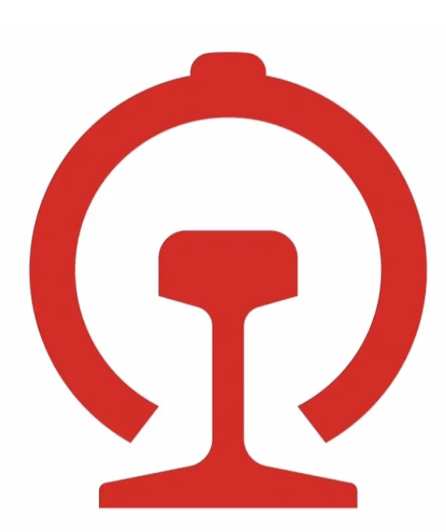
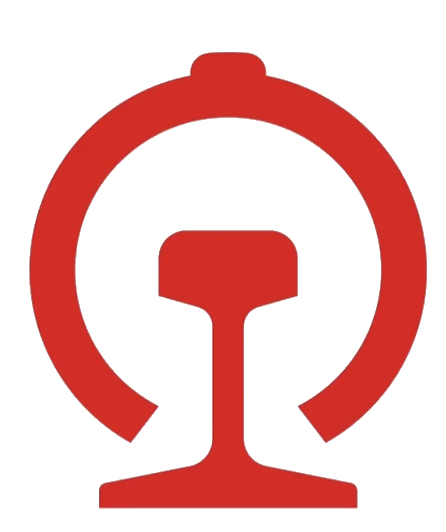
style: 空铁联运铁路logo抠掉白底只留红色标志,融入液态玻璃卡片

diff --git a/index.html b/index.html
@@ -5,10 +5,10 @@
     <meta name="viewport" content="width=device-width, initial-scale=1.0">
     <title>老牧师航空 - 首页</title>
     <script src="https://cdn.tailwindcss.com/3.4.16"></script>
-    <script src="assets/tailwind-config.js?v=20260920o"></script>
+    <script src="assets/tailwind-config.js?v=20260920p"></script>
     <link href="https://cdn.jsdelivr.net/npm/font-awesome@4.7.0/css/font-awesome.min.css" rel="stylesheet">
     <link rel="preload" as="image" href="assets/hero_bg.webp">
-    <link rel="stylesheet" href="assets/style.css?v=20260920o">
+    <link rel="stylesheet" href="assets/style.css?v=20260920p">
 </head>
 <body class="text-textDark">
     <div class="bg-layer" aria-hidden="true"></div>
@@ -73,7 +73,7 @@
                     </div>
                 </div>
                 <div class="mt-8 flex justify-center items-end">
-                    <img src="assets/railair_icon.png?v=20260920o" alt="空铁联运" class="anim-float" style="height:110px;width:auto;border-radius:24px;box-shadow:0 10px 30px rgba(74,90,110,0.18);background:#fff;padding:14px 18px">
+                    <img src="assets/railair_icon.png?v=20260920p" alt="空铁联运" class="anim-float" style="height:120px;width:auto;filter:drop-shadow(0 6px 18px rgba(180,60,60,0.25))">
                 </div>
             </div>
         </section>
@@ -150,9 +150,9 @@
         </section>
     </main>
     <div id="siteFooter"></div>
-    <script src="assets/data.js?v=20260920o"></script>
-    <script src="assets/common.js?v=20260920o"></script>
-    <script src="assets/routes-data.js?v=20260920o"></script>
+    <script src="assets/data.js?v=20260920p"></script>
+    <script src="assets/common.js?v=20260920p"></script>
+    <script src="assets/routes-data.js?v=20260920p"></script>
     <script>
         function quickSearch(start,end){location.href=`booking.html?start=${encodeURIComponent(start)}&end=${encodeURIComponent(end)}`;}
         function routeCard(r){

diff --git a/egg.html b/egg.html
@@ -5,16 +5,16 @@
     <meta name="viewport" content="width=device-width, initial-scale=1.0">
     <title>神秘彩蛋 | 老牧师航空</title>
     <script src="https://cdn.tailwindcss.com/3.4.16"></script>
-    <script src="assets/tailwind-config.js?v=20260920o"></script>
+    <script src="assets/tailwind-config.js?v=20260920p"></script>
     <link href="https://cdn.jsdelivr.net/npm/font-awesome@4.7.0/css/font-awesome.min.css" rel="stylesheet">
-    <link rel="stylesheet" href="assets/style.css?v=20260920o">
+    <link rel="stylesheet" href="assets/style.css?v=20260920p">
 </head>
 <body class="text-textDark">
     <div id="siteHeader"></div>
     <main class="pt-32 pb-16 container mx-auto px-4 max-w-2xl text-center">
         <!-- 彩蛋吉祥物 -->
         <div class="bg-card card-gold p-8 rounded-big shadow-xl anim-up">
-            <img src="assets/egg_mascot.png?v=20260920o" alt="神秘吉祥物" class="mx-auto w-48 h-48 object-contain rounded-3xl bounce-hover">
+            <img src="assets/egg_mascot.png?v=20260920p" alt="神秘吉祥物" class="mx-auto w-48 h-48 object-contain rounded-3xl bounce-hover">
             <h2 class="text-2xl font-bold text-white mt-6">🎉 恭喜你发现了神秘彩蛋！</h2>
             <p class="text-white/70 mt-2">这只爱比耶的小袋鼠送你一次抽奖机会，每天可抽一次</p>
 
@@ -31,8 +31,8 @@
         </div>
     </main>
     <div id="siteFooter"></div>
-    <script src="assets/data.js?v=20260920o"></script>
-    <script src="assets/common.js?v=20260920o"></script>
+    <script src="assets/data.js?v=20260920p"></script>
+    <script src="assets/common.js?v=20260920p"></script>
     <script>
         // 奖品池
         const PRIZES=[

diff --git a/member.html b/member.html
@@ -5,9 +5,9 @@
     <meta name="viewport" content="width=device-width, initial-scale=1.0">
     <title>会员中心 | 老牧师航空</title>
     <script src="https://cdn.tailwindcss.com/3.4.16"></script>
-    <script src="assets/tailwind-config.js?v=20260920o"></script>
+    <script src="assets/tailwind-config.js?v=20260920p"></script>
     <link href="https://cdn.jsdelivr.net/npm/font-awesome@4.7.0/css/font-awesome.min.css" rel="stylesheet">
-    <link rel="stylesheet" href="assets/style.css?v=20260920o">
+    <link rel="stylesheet" href="assets/style.css?v=20260920p">
 </head>
 <body class="text-textDark">
     <div id="siteHeader"></div>
@@ -132,8 +132,8 @@
             </div>
         </div>
     </div>
-    <script src="assets/data.js?v=20260920o"></script>
-    <script src="assets/common.js?v=20260920o"></script>
+    <script src="assets/data.js?v=20260920p"></script>
+    <script src="assets/common.js?v=20260920p"></script>
     <script>
         const LV_COLORS={普卡:'text-white',银卡:'text-gray-300',金卡:'text-gold',铂金卡:'text-amber-300',钻石卡:'text-cyan-300'};
         const LV_DESC={普卡:'注册即享 · 里程累积、会员专属客服、会员价购票',银卡:'1万里程 · 优先值机、额外10%里程加成、生日礼遇',金卡:'3万里程 · 免费选座、贵宾安检通道、额外25%里程、优先登机',铂金卡:'6万里程 · 贵宾休息室、升舱券×1/年、额外50%里程',钻石卡:'10万里程 · 专属管家、无限休息室、额外100%里程'};

diff --git a/routes.html b/routes.html
@@ -5,9 +5,9 @@
     <meta name="viewport" content="width=device-width, initial-scale=1.0">
     <title>全部航线 | 老牧师航空</title>
     <script src="https://cdn.tailwindcss.com/3.4.16"></script>
-    <script src="assets/tailwind-config.js?v=20260920o"></script>
+    <script src="assets/tailwind-config.js?v=20260920p"></script>
     <link href="https://cdn.jsdelivr.net/npm/font-awesome@4.7.0/css/font-awesome.min.css" rel="stylesheet">
-    <link rel="stylesheet" href="assets/style.css?v=20260920o">
+    <link rel="stylesheet" href="assets/style.css?v=20260920p">
 </head>
 <body class="text-textDark">
     <div id="siteHeader"></div>
@@ -26,9 +26,9 @@
         </div>
     </main>
     <div id="siteFooter"></div>
-    <script src="assets/data.js?v=20260920o"></script>
-    <script src="assets/common.js?v=20260920o"></script>
-    <script src="assets/routes-data.js?v=20260920o"></script>
+    <script src="assets/data.js?v=20260920p"></script>
+    <script src="assets/common.js?v=20260920p"></script>
+    <script src="assets/routes-data.js?v=20260920p"></script>
     <script>
         function quickSearch(start,end){location.href=`booking.html?start=${encodeURIComponent(start)}&end=${encodeURIComponent(end)}`;}
         function routeCard(r){

diff --git a/special.html b/special.html
@@ -5,9 +5,9 @@
     <meta name="viewport" content="width=device-width, initial-scale=1.0">
     <title>特殊服务申请 | 老牧师航空</title>
     <script src="https://cdn.tailwindcss.com/3.4.16"></script>
-    <script src="assets/tailwind-config.js?v=20260920o"></script>
+    <script src="assets/tailwind-config.js?v=20260920p"></script>
     <link href="https://cdn.jsdelivr.net/npm/font-awesome@4.7.0/css/font-awesome.min.css" rel="stylesheet">
-    <link rel="stylesheet" href="assets/style.css?v=20260920o">
+    <link rel="stylesheet" href="assets/style.css?v=20260920p">
 </head>
 <body class="text-textDark">
     <div id="siteHeader"></div>
@@ -49,8 +49,8 @@
         </div>
     </main>
     <div id="siteFooter"></div>
-    <script src="assets/data.js?v=20260920o"></script>
-    <script src="assets/common.js?v=20260920o"></script>
+    <script src="assets/data.js?v=20260920p"></script>
+    <script src="assets/common.js?v=20260920p"></script>
     <script>
         const SPECIAL_FORMS={
             meal:{name:"定制特殊餐食",icon:"fa-cutlery",desc:"素食/清真/婴儿餐等特殊餐食定制，需在起飞前24小时申请",

diff --git a/booking.html b/booking.html
@@ -5,9 +5,9 @@
     <meta name="viewport" content="width=device-width, initial-scale=1.0">
     <title>出行预订 | 老牧师航空</title>
     <script src="https://cdn.tailwindcss.com/3.4.16"></script>
-    <script src="assets/tailwind-config.js?v=20260920o"></script>
+    <script src="assets/tailwind-config.js?v=20260920p"></script>
     <link href="https://cdn.jsdelivr.net/npm/font-awesome@4.7.0/css/font-awesome.min.css" rel="stylesheet">
-    <link rel="stylesheet" href="assets/style.css?v=20260920o">
+    <link rel="stylesheet" href="assets/style.css?v=20260920p">
 </head>
 <body class="text-textDark">
     <div id="siteHeader"></div>
@@ -87,8 +87,8 @@
         </div>
     </main>
     <div id="siteFooter"></div>
-    <script src="assets/data.js?v=20260920o"></script>
-    <script src="assets/common.js?v=20260920o"></script>
+    <script src="assets/data.js?v=20260920p"></script>
+    <script src="assets/common.js?v=20260920p"></script>
     <script>
         const PAGE_SIZE=8;
         let currentList=[],shown=0,selectFlight=null,selectCabin="eco",selectType="flight",selectPlan=null,selectWeatherRisk=null,currentRailList=[];

diff --git a/cart.html b/cart.html
@@ -5,9 +5,9 @@
     <meta name="viewport" content="width=device-width, initial-scale=1.0">
     <title>购物车 | 老牧师航空</title>
     <script src="https://cdn.tailwindcss.com/3.4.16"></script>
-    <script src="assets/tailwind-config.js?v=20260920o"></script>
+    <script src="assets/tailwind-config.js?v=20260920p"></script>
     <link href="https://cdn.jsdelivr.net/npm/font-awesome@4.7.0/css/font-awesome.min.css" rel="stylesheet">
-    <link rel="stylesheet" href="assets/style.css?v=20260920o">
+    <link rel="stylesheet" href="assets/style.css?v=20260920p">
 </head>
 <body class="text-textDark">
     <div id="siteHeader"></div>
@@ -35,8 +35,8 @@
         </div>
     </div>
     <div id="siteFooter"></div>
-    <script src="assets/data.js?v=20260920o"></script>
-    <script src="assets/common.js?v=20260920o"></script>
+    <script src="assets/data.js?v=20260920p"></script>
+    <script src="assets/common.js?v=20260920p"></script>
     <script>
         const TRAIN_SEAT_KEYS=['second','first','business'];
         const TRAIN_SEAT_NAME={second:'二等座',first:'一等座',business:'商务座'};

diff --git a/checkin.html b/checkin.html
@@ -5,9 +5,9 @@
     <meta name="viewport" content="width=device-width, initial-scale=1.0">
     <title>在线值机 | 老牧师航空</title>
     <script src="https://cdn.tailwindcss.com/3.4.16"></script>
-    <script src="assets/tailwind-config.js?v=20260920o"></script>
+    <script src="assets/tailwind-config.js?v=20260920p"></script>
     <link href="https://cdn.jsdelivr.net/npm/font-awesome@4.7.0/css/font-awesome.min.css" rel="stylesheet">
-    <link rel="stylesheet" href="assets/style.css?v=20260920o">
+    <link rel="stylesheet" href="assets/style.css?v=20260920p">
 </head>
 <body class="text-textDark">
     <div id="siteHeader"></div>
@@ -17,8 +17,8 @@
         <div id="boardingPass" class="hidden"></div>
     </main>
     <div id="siteFooter"></div>
-    <script src="assets/data.js?v=20260920o"></script>
-    <script src="assets/common.js?v=20260920o"></script>
+    <script src="assets/data.js?v=20260920p"></script>
+    <script src="assets/common.js?v=20260920p"></script>
     <script>
         let curOrder=null,selectedSeat=null;
         function hasActiveBenefit(id){

diff --git a/activity-1.html b/activity-1.html
@@ -5,9 +5,9 @@
     <meta name="viewport" content="width=device-width, initial-scale=1.0">
     <title>逐梦云天·定格航影 | 老牧师航空</title>
     <script src="https://cdn.tailwindcss.com/3.4.16"></script>
-    <script src="assets/tailwind-config.js?v=20260920o"></script>
+    <script src="assets/tailwind-config.js?v=20260920p"></script>
     <link href="https://cdn.jsdelivr.net/npm/font-awesome@4.7.0/css/font-awesome.min.css" rel="stylesheet">
-    <link rel="stylesheet" href="assets/style.css?v=20260920o">
+    <link rel="stylesheet" href="assets/style.css?v=20260920p">
 </head>
 <body class="text-textDark">
     <div id="siteHeader"></div>
@@ -106,8 +106,8 @@
         </section>
     </main>
     <div id="siteFooter"></div>
-    <script src="assets/data.js?v=20260920o"></script>
-    <script src="assets/common.js?v=20260920o"></script>
+    <script src="assets/data.js?v=20260920p"></script>
+    <script src="assets/common.js?v=20260920p"></script>
     <script>
         const io=new IntersectionObserver(entries=>{
             entries.forEach(e=>{

diff --git a/customer.html b/customer.html
@@ -5,9 +5,9 @@
     <meta name="viewport" content="width=device-width, initial-scale=1.0">
     <title>在线客服 | 老牧师航空</title>
     <script src="https://cdn.tailwindcss.com/3.4.16"></script>
-    <script src="assets/tailwind-config.js?v=20260920o"></script>
+    <script src="assets/tailwind-config.js?v=20260920p"></script>
     <link href="https://cdn.jsdelivr.net/npm/font-awesome@4.7.0/css/font-awesome.min.css" rel="stylesheet">
-    <link rel="stylesheet" href="assets/style.css?v=20260920o">
+    <link rel="stylesheet" href="assets/style.css?v=20260920p">
 </head>
 <body class="text-textDark">
     <div id="siteHeader"></div>
@@ -54,8 +54,8 @@
         </div>
     </div>
     <div id="siteFooter"></div>
-    <script src="assets/data.js?v=20260920o"></script>
-    <script src="assets/common.js?v=20260920o"></script>
+    <script src="assets/data.js?v=20260920p"></script>
+    <script src="assets/common.js?v=20260920p"></script>
     <script>
         const chatBody=document.getElementById("chatBody");
         function botReply(text){

diff --git a/order.html b/order.html
@@ -5,9 +5,9 @@
     <meta name="viewport" content="width=device-width, initial-scale=1.0">
     <title>我的订单 | 老牧师航空</title>
     <script src="https://cdn.tailwindcss.com/3.4.16"></script>
-    <script src="assets/tailwind-config.js?v=20260920o"></script>
+    <script src="assets/tailwind-config.js?v=20260920p"></script>
     <link href="https://cdn.jsdelivr.net/npm/font-awesome@4.7.0/css/font-awesome.min.css" rel="stylesheet">
-    <link rel="stylesheet" href="assets/style.css?v=20260920o">
+    <link rel="stylesheet" href="assets/style.css?v=20260920p">
 </head>
 <body class="text-textDark">
     <div id="siteHeader"></div>
@@ -74,8 +74,8 @@
         </div>
     </div>
     <div id="siteFooter"></div>
-    <script src="assets/data.js?v=20260920o"></script>
-    <script src="assets/common.js?v=20260920o"></script>
+    <script src="assets/data.js?v=20260920p"></script>
+    <script src="assets/common.js?v=20260920p"></script>
     <script>
         let changeIdx=null,changeFree=false;
         let cabinIdx=null,cabinTargetKey=null;

diff --git a/flight.html b/flight.html
@@ -5,9 +5,9 @@
     <meta name="viewport" content="width=device-width, initial-scale=1.0">
     <title>航班动态 | 老牧师航空</title>
     <script src="https://cdn.tailwindcss.com/3.4.16"></script>
-    <script src="assets/tailwind-config.js?v=20260920o"></script>
+    <script src="assets/tailwind-config.js?v=20260920p"></script>
     <link href="https://cdn.jsdelivr.net/npm/font-awesome@4.7.0/css/font-awesome.min.css" rel="stylesheet">
-    <link rel="stylesheet" href="assets/style.css?v=20260920o">
+    <link rel="stylesheet" href="assets/style.css?v=20260920p">
 </head>
 <body class="text-textDark">
     <div id="siteHeader"></div>
@@ -21,8 +21,8 @@
         </div>
     </main>
     <div id="siteFooter"></div>
-    <script src="assets/data.js?v=20260920o"></script>
-    <script src="assets/common.js?v=20260920o"></script>
+    <script src="assets/data.js?v=20260920p"></script>
+    <script src="assets/common.js?v=20260920p"></script>
     <script>
         function flightStatus(f){
             const now=Date.now();
